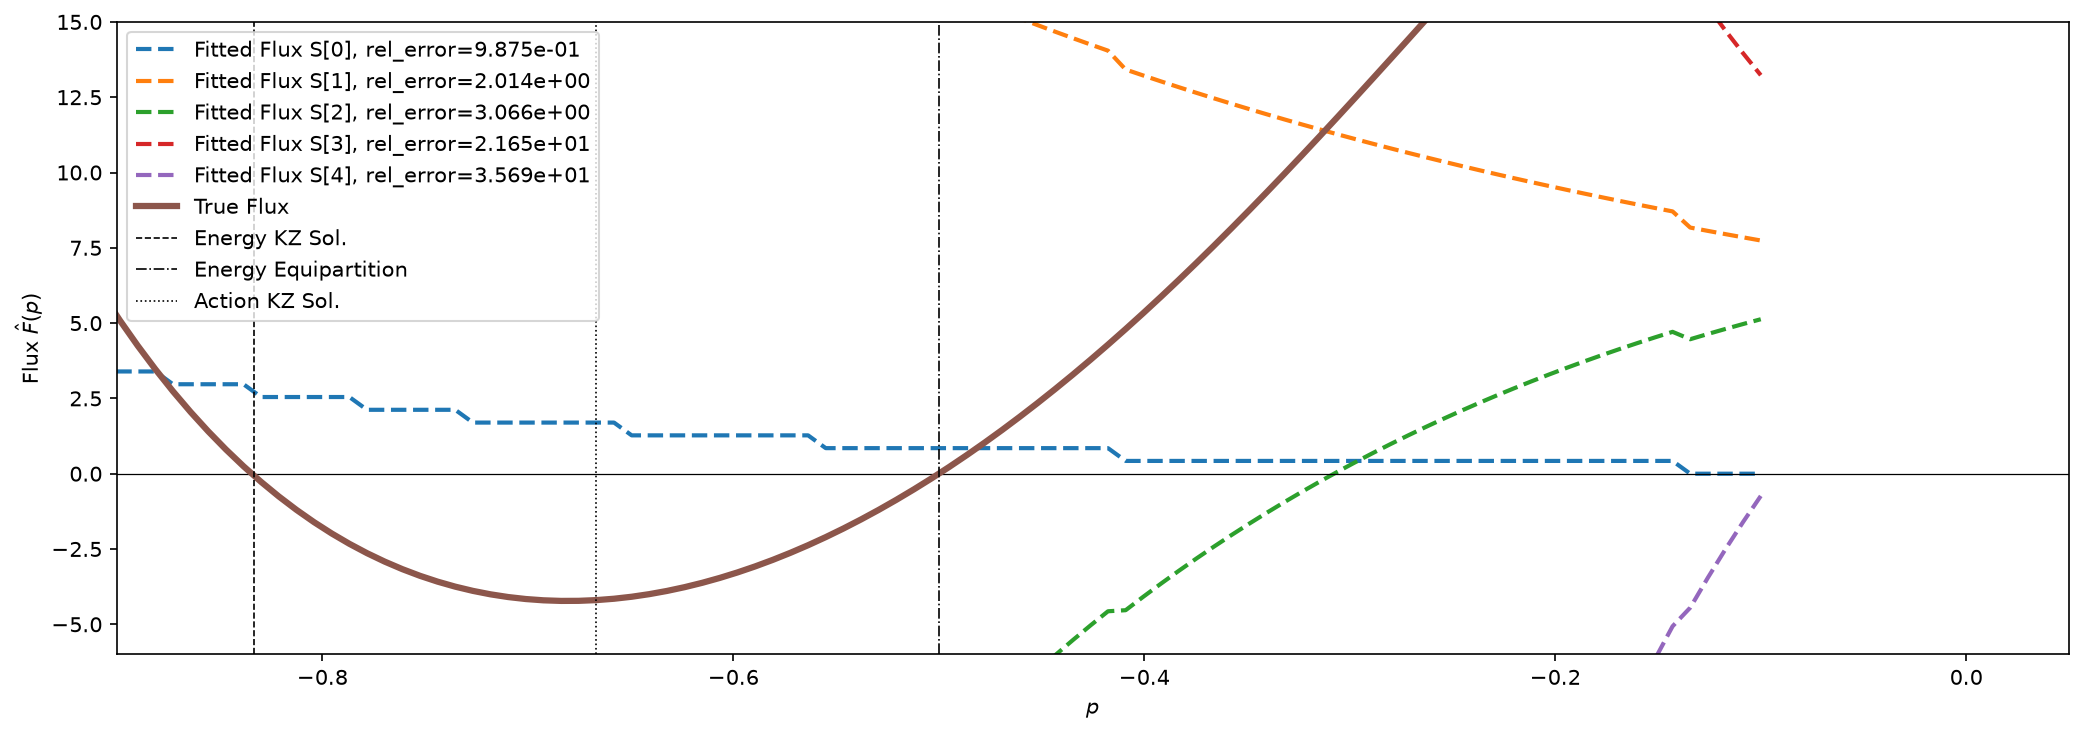
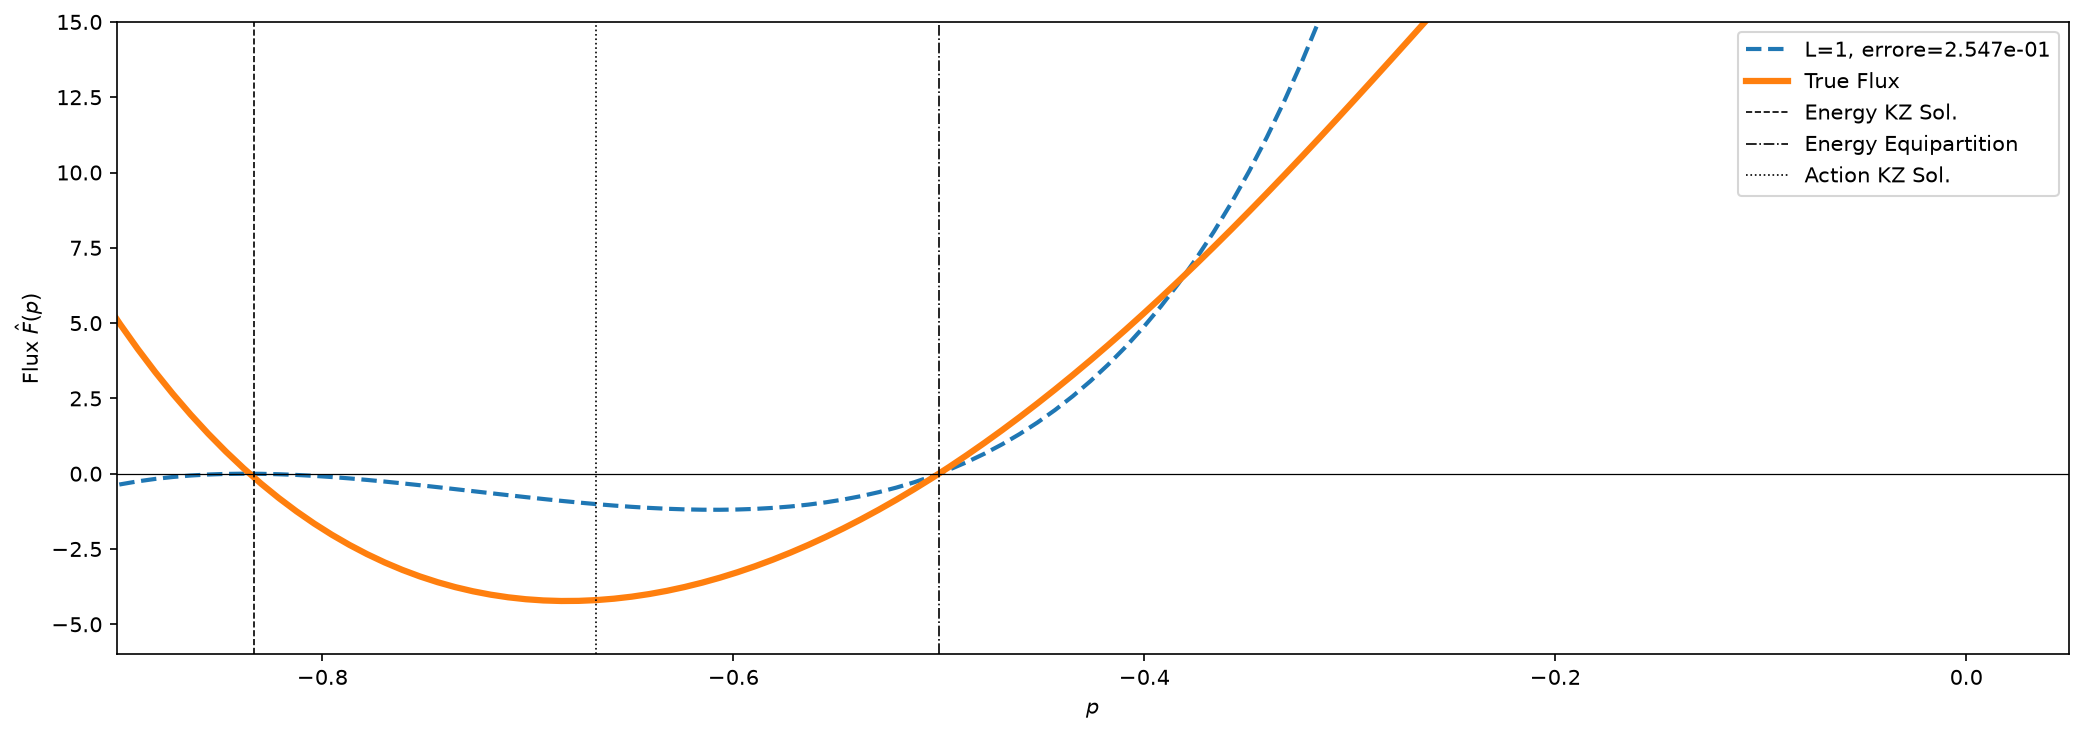
refactor: update fit_DAM function parameters and improve fitting process for enhanced accuracy

diff --git a/src/physics/linear_operator_library_mmt.py b/src/physics/linear_operator_library_mmt.py
@@ -142,38 +142,45 @@ def fit_flux_through_1(ps, A, max_order = 4, beta=0.25,
 
     return reg_exact.coef_, rel_error
 
-def fit_DAM(ps, A, beta, max_order, k_min, k_max, N=300, IntN=200, save_path=None, show=True):
+def fit_DAM(ps, k, A, beta, max_order, k_min, k_max, N=300, IntN=200, save_path=None, show=True):
 
     ps = np.asarray(ps)
     plt.figure(figsize=(14,5))
 
+    coef_list = []
+    err_list = []
+    F_fit_list = []
     F_true_list = []
-    derivs_list = []
-    F_fit = 0
-    err_list =[]
 
     for p in ps:
-        
-        der, N_p = power_law_derivatives_linear(1, p, max_order, k_min, k_max)
-        F = flux_ab(power_law, (p, A), [0, 1], [1, np.inf], beta, "Action", N=N, IntN=IntN)[0]
-        F_true_list.append(F)
-        derivs_list.append(der)
-        F_true = np.array(F_true_list)
-        X = np.array(derivs_list)
 
-        for L in range(1, max_order + 1):
+        F_true = flux_ab(power_law, (p, A), [0, 1], [1, np.inf], beta, "Action", N=N, IntN=IntN)[0]
+        F_true_list.append(F_true)
 
-            reg_exact = LinearRegression(fit_intercept=False).fit(X[:, :L+1], F_true)
-            coefs = reg_exact.coef_
-            F_fit += coefs[L] * X[:, L]
-            rel_error = np.linalg.norm(F_fit - F_true) / (np.linalg.norm(F_true) + 1e-30)
-            err_list.append(rel_error)
-            plt.plot(p, F_fit, linestyle="--", linewidth=2, label="Fitted Flux S[{i}], rel_error={rel_error:.3e}".format(i=L, rel_error=rel_error))
+        (coef_e, r2_e, rel_e, N_p) = fit_operators_at_fixed_p_linear(
+                p, A, k, k_min, k_max, beta=beta, N=N, IntN=IntN, max_order=max_order, ridge_alpha = 1e-3
+            )
 
+        row, term = [1.0], 1.0
+        for ell in range(1, max_order + 1):
+            term *= (p - (ell - 1))
+            row.append(term)
+
+        F_fit_p = np.dot(coef_e, row[:len(coef_e)])
+        F_fit_list.append(F_fit_p)
+
+        coef_list.append(coef_e)
+        err_list.append(rel_e)
+
+    F_true = np.asarray(F_true_list)
+    F_fit = np.asarray(F_fit_list)
+
+
+    plt.plot(ps, F_fit, linestyle="--", linewidth=2, label=f"L={max_order}, errore={rel_e:.3e}")
+    plt.plot(ps, F_true,  linewidth=3, label="True Flux")
     plt.xlabel(r"$p$")
     plt.ylabel(r"Flux $\hat{F}(p)$")
-    plt.axhline(0, color="black", linewidth=0.6)
-    plt.plot(ps, F_true,  linewidth=3, label="True Flux")   
+    plt.axhline(0, color="black", linewidth=0.6)   
     plt.axvline(-5/6, linestyle="--", linewidth=0.8, color="black", label="Energy KZ Sol.")
     plt.axvline(-1/2, linestyle="-.", linewidth=0.8, color="black", label="Energy Equipartition")
     plt.axvline(-2/3, linestyle=":", linewidth=0.8, color="black", label="Action KZ Sol.")

diff --git a/main_mmt.py b/main_mmt.py
@@ -100,7 +100,7 @@ test_data = splits["test"]
 #------------------ Fit dei coefficienti stacked, tentativo di DAM -----------------------------#
 
 fit_DAM(
-    ps = np.linspace(-0.95, -0.1, 100), A = 1, beta=0.25, max_order=4,
-    k_min = config.K_MIN, k_max = config.K_MAX, N=600, IntN=500,
+    ps = np.linspace(-0.95, -0.1, 100), k = np.linspace(0.1, 1.0, 100), A = 1, beta=0.25, max_order=1,
+    k_min = config.K_MIN, k_max = config.K_MAX, N=300, IntN=200,
     save_path="outputs_mmt/fit_DAM_mmt_linear", show=False
 )
